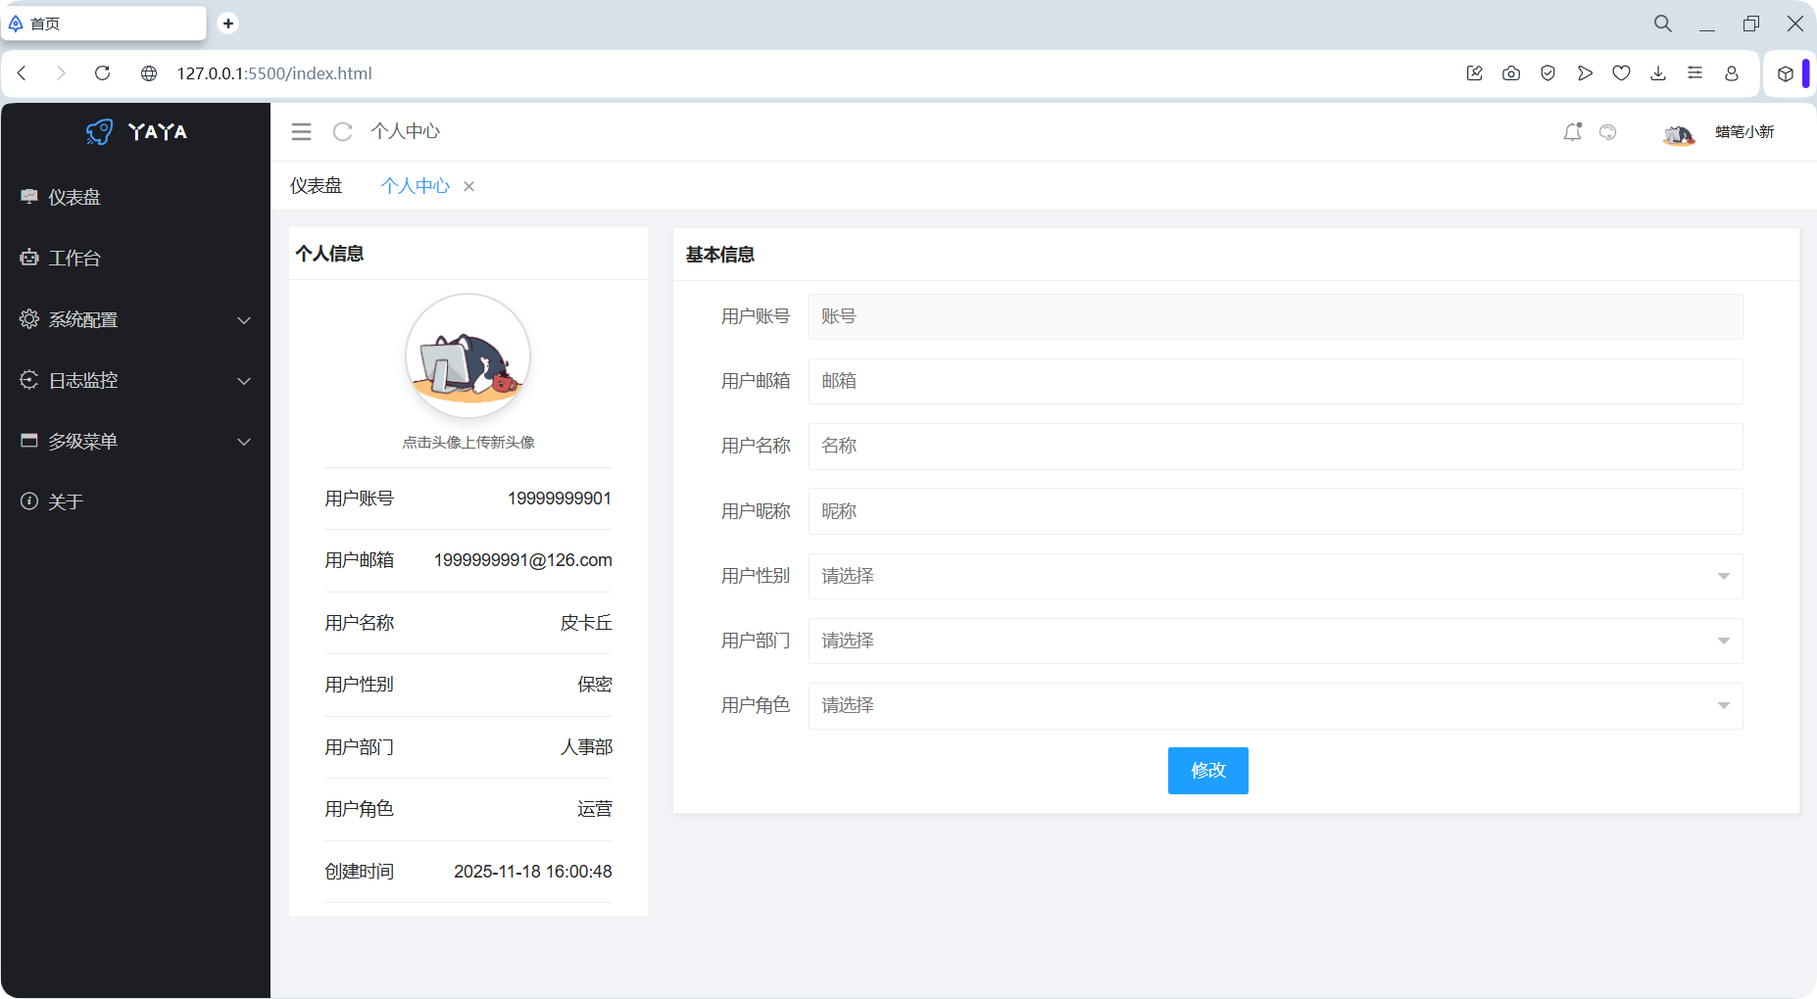
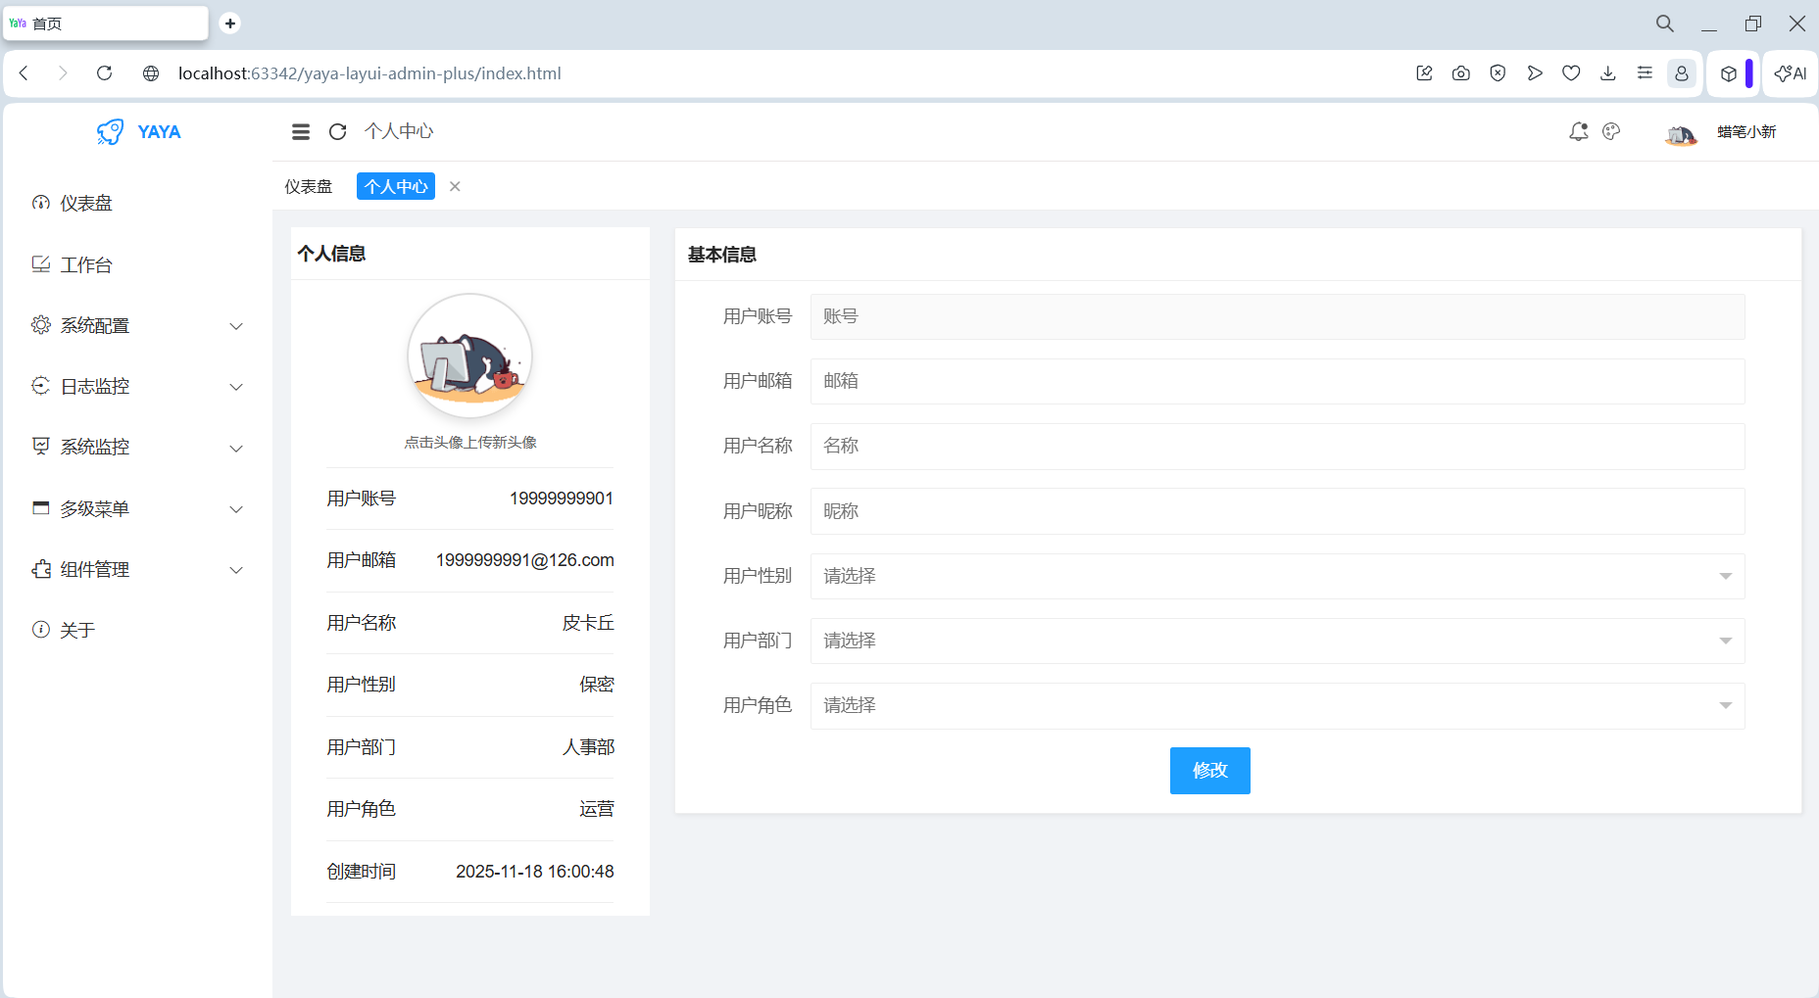
升级layui更新页面样式🎉

diff --git a/index.html b/index.html
@@ -36,7 +36,7 @@
             <!-- LOGO -->
             <div class="yaya-logo">
                 <!-- LOGO图标 -->
-                <svg t="1769259060319" class="icon" viewBox="0 0 1024 1024" version="1.1" xmlns="http://www.w3.org/2000/svg" p-id="5060" width="25" height="25"><path d="M150.320611 720.240765c7.749498-8.218172 20.813025-8.218172 28.562523 0 7.995091 7.525394 7.995091 20.589944 0 29.05371l-50.559513 50.336432c-7.994068 8.218172-21.305235 8.218172-29.031197 0-8.017604-7.995091-8.017604-20.813025 0-29.031197L150.320611 720.240765 150.320611 720.240765zM786.42514 365.541347 786.42514 365.541347c0 70.167083-56.856939 126.800941-127.024022 126.800941s-127.269615-56.633858-127.269615-126.800941c0-69.654406 57.102532-126.778428 127.269615-126.778428S786.42514 295.374264 786.42514 365.541347L786.42514 365.541347zM659.401118 279.406594 659.401118 279.406594c-47.656393 0-86.11224 38.232766-86.11224 86.134753 0 47.433312 38.455847 85.666078 86.11224 85.666078 47.433312 0 86.157265-38.232766 86.157265-85.666078C745.55736 317.638337 706.83443 279.406594 659.401118 279.406594L659.401118 279.406594zM190.495612 645.964084 190.495612 645.964084c0-26.352181 1.452071-52.257178 4.846378-78.608336 1.429559-9.223059 2.411933-18.401092 4.109598-27.603685l-7.258311 2.90312c-16.703427 6.789637-32.180933 16.705474-45.981241 29.52443-13.778818 12.594853-35.329646 11.858072-48.14758-1.675152-2.411933-3.148713-4.600785-5.828752-5.806239-8.977465-21.281699-42.341341-28.048823-89.997734-20.791535-135.711891 7.258311-45.490054 28.048823-88.345094 62.908772-123.161041l0 0 0 0c31.44313-32.202423 70.88135-52.257178 111.74913-61.234643 34.859949-7.258311 70.680782-6.297426 105.519242 2.680039l6.274914-6.297426 0.5137-0.959861-0.5137 0c73.561389-73.092715 162.621774-122.669854 256.483512-147.83807 97.256044-26.396183 199.849654-26.396183 297.127188 0 12.349259 3.148713 21.282722 12.573363 24.431435 24.185842l0 0.491187 0 0.245593c25.882484 97.010451 25.882484 199.378933-0.245593 296.390407-25.145703 93.637634-74.745355 183.145204-148.061151 256.215406l-2.188852 2.434445-4.823865 4.355191c9.42465 34.367739 10.161431 70.635757 2.657526 105.496729-8.709359 40.644699-29.05371 79.83528-60.989049 111.547539l-1.919722 1.944282c-34.369785 33.363875-76.934207 53.953819-121.241318 61.189617-46.205345 7.034207-94.107331 0.245593-137.185452-21.282722-16.458857-8.218172-23.224957-29.031197-14.984273-45.735647 1.429559-2.657526 3.394307-5.560646 5.783727-7.995091 12.595876-13.533224 22.756283-29.255301 29.544897-45.736671l2.90312-7.480368c-9.200546 1.697665-18.893302 3.148713-28.071336 4.353145-27.111474 3.640923-54.199413 4.847401-81.310887 4.601808-9.178033 0-17.396205-3.617387-23.693632-9.44614l0 0L199.920262 672.828942C192.908568 665.348574 189.513238 655.901411 190.495612 645.964084L190.495612 645.964084zM262.584464 576.288189 262.584464 576.288189c-2.390443 19.361977-3.864004 38.969547-4.332678 58.08593l132.115993 132.339074c19.339464-0.468674 38.70144-2.166339 58.040904-4.600785 23.493064-3.1262 47.210231-7.503904 70.167083-14.270005 3.394307-0.959861 7.258311-1.452071 10.898211-1.205455 18.647709 0.468674 33.631982 16.458857 32.649608 35.329646-0.959861 26.373671-6.744611 52.257178-16.905018 77.1798-3.885494 8.463766-8.240685 17.418718-13.08604 25.882484 18.401092 4.131087 37.517475 4.600785 56.387241 0.982374 30.728862-5.091972 60.229756-18.893302 84.437088-42.341341l1.206478-1.473561c22.509666-21.99699 36.310997-49.599651 42.36283-77.894068 6.744611-29.523407 4.109598-60.497862-6.788613-89.037872-4.846378-12.103666-1.452071-27.334555 9.178033-36.780695l10.652618-10.18292 8.486278-8.686846 1.205455-1.227967c65.321728-64.829518 108.869546-143.460366 130.642432-225.486544 21.305235-79.122035 23.24747-163.067936 4.846378-243.173368-79.837326-17.909905-163.090449-15.968693-242.436588 5.069459-82.761935 22.286586-161.14719 66.056462-226.000244 130.910539l-9.44614 9.178033-0.223081 0-9.178033 10.18292c-9.223059 10.875698-24.208355 15.497972-38.008662 9.915837-28.541033-10.875698-59.761082-12.842493-88.792279-6.54302-28.54001 5.828752-55.897078 20.098757-78.162174 42.341341l0-0.223081c-24.430412 24.431435-38.946011 54.199413-43.793412 86.134753-3.148713 18.155499-2.90312 37.494962 0.982374 56.142671 8.709359-4.868891 17.418718-9.44614 26.128077-13.087063 24.677029-10.161431 50.314942-15.477506 76.44302-17.173125 3.6399 0 7.770987 0.245593 11.142781 1.695618 18.401092 4.356214 28.562523 23.695678 23.694655 41.605583C270.824125 529.122983 265.977747 552.839127 262.584464 576.288189L262.584464 576.288189zM276.139178 845.835228 276.139178 845.835228c7.749498-7.972579 20.567431-7.972579 28.562523 0 8.240685 7.995091 8.240685 20.813025 0 28.785603l-50.805106 50.827619c-7.995091 7.726985-20.813025 7.726985-28.54001 0-8.240685-7.749498-8.240685-21.305235 0-28.785603L276.139178 845.835228 276.139178 845.835228zM213.230406 782.680862 213.230406 782.680862c7.748475-7.749498 20.567431-7.749498 28.562523 0 8.240685 8.240685 8.240685 21.058618 0 29.05371L126.603443 927.123602c-7.972579 7.995091-20.790512 7.995091-28.54001 0-8.463766-8.218172-8.463766-21.058618 0-29.031197L213.230406 782.680862 213.230406 782.680862z" fill="var(--tab-text)" p-id="5061"></path></svg>
+                <svg t="1769259060319" class="icon" viewBox="0 0 1024 1024" version="1.1" xmlns="http://www.w3.org/2000/svg" p-id="5060" width="25" height="25"><path d="M150.320611 720.240765c7.749498-8.218172 20.813025-8.218172 28.562523 0 7.995091 7.525394 7.995091 20.589944 0 29.05371l-50.559513 50.336432c-7.994068 8.218172-21.305235 8.218172-29.031197 0-8.017604-7.995091-8.017604-20.813025 0-29.031197L150.320611 720.240765 150.320611 720.240765zM786.42514 365.541347 786.42514 365.541347c0 70.167083-56.856939 126.800941-127.024022 126.800941s-127.269615-56.633858-127.269615-126.800941c0-69.654406 57.102532-126.778428 127.269615-126.778428S786.42514 295.374264 786.42514 365.541347L786.42514 365.541347zM659.401118 279.406594 659.401118 279.406594c-47.656393 0-86.11224 38.232766-86.11224 86.134753 0 47.433312 38.455847 85.666078 86.11224 85.666078 47.433312 0 86.157265-38.232766 86.157265-85.666078C745.55736 317.638337 706.83443 279.406594 659.401118 279.406594L659.401118 279.406594zM190.495612 645.964084 190.495612 645.964084c0-26.352181 1.452071-52.257178 4.846378-78.608336 1.429559-9.223059 2.411933-18.401092 4.109598-27.603685l-7.258311 2.90312c-16.703427 6.789637-32.180933 16.705474-45.981241 29.52443-13.778818 12.594853-35.329646 11.858072-48.14758-1.675152-2.411933-3.148713-4.600785-5.828752-5.806239-8.977465-21.281699-42.341341-28.048823-89.997734-20.791535-135.711891 7.258311-45.490054 28.048823-88.345094 62.908772-123.161041l0 0 0 0c31.44313-32.202423 70.88135-52.257178 111.74913-61.234643 34.859949-7.258311 70.680782-6.297426 105.519242 2.680039l6.274914-6.297426 0.5137-0.959861-0.5137 0c73.561389-73.092715 162.621774-122.669854 256.483512-147.83807 97.256044-26.396183 199.849654-26.396183 297.127188 0 12.349259 3.148713 21.282722 12.573363 24.431435 24.185842l0 0.491187 0 0.245593c25.882484 97.010451 25.882484 199.378933-0.245593 296.390407-25.145703 93.637634-74.745355 183.145204-148.061151 256.215406l-2.188852 2.434445-4.823865 4.355191c9.42465 34.367739 10.161431 70.635757 2.657526 105.496729-8.709359 40.644699-29.05371 79.83528-60.989049 111.547539l-1.919722 1.944282c-34.369785 33.363875-76.934207 53.953819-121.241318 61.189617-46.205345 7.034207-94.107331 0.245593-137.185452-21.282722-16.458857-8.218172-23.224957-29.031197-14.984273-45.735647 1.429559-2.657526 3.394307-5.560646 5.783727-7.995091 12.595876-13.533224 22.756283-29.255301 29.544897-45.736671l2.90312-7.480368c-9.200546 1.697665-18.893302 3.148713-28.071336 4.353145-27.111474 3.640923-54.199413 4.847401-81.310887 4.601808-9.178033 0-17.396205-3.617387-23.693632-9.44614l0 0L199.920262 672.828942C192.908568 665.348574 189.513238 655.901411 190.495612 645.964084L190.495612 645.964084zM262.584464 576.288189 262.584464 576.288189c-2.390443 19.361977-3.864004 38.969547-4.332678 58.08593l132.115993 132.339074c19.339464-0.468674 38.70144-2.166339 58.040904-4.600785 23.493064-3.1262 47.210231-7.503904 70.167083-14.270005 3.394307-0.959861 7.258311-1.452071 10.898211-1.205455 18.647709 0.468674 33.631982 16.458857 32.649608 35.329646-0.959861 26.373671-6.744611 52.257178-16.905018 77.1798-3.885494 8.463766-8.240685 17.418718-13.08604 25.882484 18.401092 4.131087 37.517475 4.600785 56.387241 0.982374 30.728862-5.091972 60.229756-18.893302 84.437088-42.341341l1.206478-1.473561c22.509666-21.99699 36.310997-49.599651 42.36283-77.894068 6.744611-29.523407 4.109598-60.497862-6.788613-89.037872-4.846378-12.103666-1.452071-27.334555 9.178033-36.780695l10.652618-10.18292 8.486278-8.686846 1.205455-1.227967c65.321728-64.829518 108.869546-143.460366 130.642432-225.486544 21.305235-79.122035 23.24747-163.067936 4.846378-243.173368-79.837326-17.909905-163.090449-15.968693-242.436588 5.069459-82.761935 22.286586-161.14719 66.056462-226.000244 130.910539l-9.44614 9.178033-0.223081 0-9.178033 10.18292c-9.223059 10.875698-24.208355 15.497972-38.008662 9.915837-28.541033-10.875698-59.761082-12.842493-88.792279-6.54302-28.54001 5.828752-55.897078 20.098757-78.162174 42.341341l0-0.223081c-24.430412 24.431435-38.946011 54.199413-43.793412 86.134753-3.148713 18.155499-2.90312 37.494962 0.982374 56.142671 8.709359-4.868891 17.418718-9.44614 26.128077-13.087063 24.677029-10.161431 50.314942-15.477506 76.44302-17.173125 3.6399 0 7.770987 0.245593 11.142781 1.695618 18.401092 4.356214 28.562523 23.695678 23.694655 41.605583C270.824125 529.122983 265.977747 552.839127 262.584464 576.288189L262.584464 576.288189zM276.139178 845.835228 276.139178 845.835228c7.749498-7.972579 20.567431-7.972579 28.562523 0 8.240685 7.995091 8.240685 20.813025 0 28.785603l-50.805106 50.827619c-7.995091 7.726985-20.813025 7.726985-28.54001 0-8.240685-7.749498-8.240685-21.305235 0-28.785603L276.139178 845.835228 276.139178 845.835228zM213.230406 782.680862 213.230406 782.680862c7.748475-7.749498 20.567431-7.749498 28.562523 0 8.240685 8.240685 8.240685 21.058618 0 29.05371L126.603443 927.123602c-7.972579 7.995091-20.790512 7.995091-28.54001 0-8.463766-8.218172-8.463766-21.058618 0-29.031197L213.230406 782.680862 213.230406 782.680862z" fill="var(--logo-color)" p-id="5061"></path></svg>
                 <!-- 标题 -->
                 <h4>YAYA</h4>
             </div>

diff --git a/css/index.css b/css/index.css
@@ -2,7 +2,21 @@
 *{padding: 0;margin: 0;}
 /* 默认主题 */
 :root{
-    --logo-color:#000000;                  /* LOGO主题默认颜色 */
+    --logo-color:#1890ff;                  /* LOGO主题默认颜色 */
+    --sidebar-bg:#ffffff; 				   /* 左侧导航栏默认背景色 */
+    --sidebar-default-text: #000000CC;     /* 菜单默认字体颜色 */
+    --sidebar-select-text: #1890ff; 	   /* 菜单选中字体颜色 */
+    --sidebar-select-bg: #f8f8f8; 		   /* 菜单选中背景颜色 */
+    --sidebar-hover-bg: #f8f8f8; 		   /* 鼠标划过菜单伪类背景颜色 */
+    --sidebar-hover-text: #1890ff; 		   /* 鼠标划过菜单伪类字体颜色 */
+    --sidebar-icon-text: #000000CC; 	   /* 鼠标划过菜单伪类字体颜色 */
+    --tab-hover-text: #1890ff; 		       /* 选项卡鼠标移到字体上面的伪类字体颜色 */
+    --tab-select-text: #ffffff; 		   /* 选项卡选中字体颜色 */
+    --tab-select-bg: #1890ff;               /* 选项卡选中的背景色 */
+}
+/* Dark1主题 */
+[data-theme="dark1"]{
+    --logo-color:#16b777;                  /* LOGO主题默认颜色 */
     --sidebar-bg:#ffffff; 				   /* 左侧导航栏默认背景色 */
     --sidebar-default-text: #000000CC;     /* 菜单默认字体颜色 */
     --sidebar-select-text: #16b777; 	   /* 菜单选中字体颜色 */
@@ -10,23 +24,13 @@
     --sidebar-hover-bg: #f8f8f8; 		   /* 鼠标划过菜单伪类背景颜色 */
     --sidebar-hover-text: #16b777; 		   /* 鼠标划过菜单伪类字体颜色 */
     --sidebar-icon-text: #000000CC; 	   /* 鼠标划过菜单伪类字体颜色 */
-    --tab-text: #16b777; 		           /* 选项卡选中字体颜色 */
-}
-/* Dark1主题 */
-[data-theme="dark1"]{
-    --logo-color:#ffffff;                       /* LOGO主题默认颜色 */
-    --sidebar-bg:#2f363c; 				        /* 左侧导航栏Dark主题背景色 */
-    --sidebar-default-text: #ffffffb3;          /* 菜单默认字体颜色 */
-    --sidebar-select-text: #16b777; 	        /* 菜单选中字体颜色 */
-    --sidebar-select-bg: rgba(0,0,0,0.1); 		/* 菜单选中背景颜色 */
-    --sidebar-hover-bg: rgba(0,0,0,0.1); 		/* 鼠标划过菜单伪类背景颜色 */
-    --sidebar-hover-text: #16b777; 		        /* 鼠标划过菜单伪类字体颜色 */
-    --sidebar-icon-text: #ffffffb3; 		    /* 鼠标划过菜单伪类字体颜色 */
-    --tab-text: #16b777; 		                /* 选项卡选中字体颜色 */
+    --tab-hover-text: #16b777; 		       /* 选项卡鼠标移到字体上面的伪类字体颜色 */
+    --tab-select-text: #ffffff; 		   /* 选项卡选中字体颜色 */
+    --tab-select-bg: #16b777;               /* 选项卡选中的背景色 */
 }
 /* Dark2主题 */
 [data-theme="dark2"]{
-    --logo-color:#ffffff;                       /* LOGO主题默认颜色 */
+    --logo-color:#409eff;                       /* LOGO主题默认颜色 */
     --sidebar-bg:#1c1e23; 				        /* 左侧导航栏Dark主题背景色 */
     --sidebar-default-text: #f2f2f2cc;          /* 菜单默认字体颜色 */
     --sidebar-select-text: #fafafa; 	        /* 菜单选中字体颜色 */
@@ -34,7 +38,9 @@
     --sidebar-hover-bg: #2e3033; 		        /* 鼠标划过菜单伪类背景颜色 */
     --sidebar-hover-text: #fafafa; 		        /* 鼠标划过菜单伪类字体颜色 */
     --sidebar-icon-text: #ffffffb3; 		    /* 鼠标划过菜单伪类字体颜色 */
-    --tab-text: #409eff; 		                /* 选项卡选中字体颜色 */
+    --tab-hover-text: #409eff; 		            /* 选项卡鼠标移到字体上面的伪类字体颜色 */
+    --tab-select-text: #ffffff; 		        /* 选项卡选中字体颜色 */
+    --tab-select-bg: #409eff;                   /* 选项卡选中的背景色 */
 }
 
 /* 主题配置页面 样式 start */
@@ -97,7 +103,7 @@ a{
     border-bottom:unset;/* 选项卡选中默认下划线去掉 */
 }
 .yaya-tabs>.layui-tabs-header .layui-this, .layui-tabs-header li:hover{
-    color: var(--tab-text);/*覆盖选项卡选中默认字体颜色*/
+    color: var(--tab-hover-text);/*覆盖选项卡选中默认字体颜色*/
 }
 
 .yaya-right-bar-left{
@@ -147,11 +153,11 @@ a{
 }
 /* 选项卡鼠标划过的伪类样式 */
 .layui-tabs-header .layui-this, .layui-tabs-header li:hover{
-    color:var(--tab-text);
+    color:var(--tab-hover-text);
 }
 /* 修改选项卡标签关闭按钮伪类样式 */
 .layui-tabs-header li .layui-tabs-close:hover{
-    background-color: var(--tab-text);
+    background-color: var(--tab-hover-text);
     color:#fff;
 }
 /* 选项卡内容水平过多出现滚动条时，距离左侧的选项卡内容距离左侧的边距 */
@@ -189,7 +195,18 @@ a{
     opacity: 0;
     transform: translateX(-10px);
     animation: fadeInRight .4s ease forwards;
+    padding: 0 10px;
+    font-size: 13px;
 }
+
+.layui-this>span{
+    background-color: var(--tab-select-bg);
+    color: var(--tab-select-text);
+    padding: 4px 6px;
+    border-radius: 3px;
+    font-size: 13px;
+}
+
 /* 内容显示动画样式 */
 .yaya-tabs>.layui-tabs-body>.layui-tabs-item{
     opacity: 0;

diff --git a/views/about.html b/views/about.html
@@ -32,8 +32,15 @@
                             <i class="layui-icon layui-timeline-axis"></i>
                             <div class="layui-timeline-content layui-text">
                                 <div class="layui-timeline-title">
-                                    2026-03-04 新增系统监控页面,优化其它样式,发布v2.0-stable版本
-                                    <svg t="1772597737820" class="icon" viewBox="0 0 1024 1024" version="1.1" xmlns="http://www.w3.org/2000/svg" p-id="4792" width="32" height="32"><path d="M245.76 286.72h552.96c124.928 0 225.28 100.352 225.28 225.28s-100.352 225.28-225.28 225.28H0V532.48c0-135.168 110.592-245.76 245.76-245.76z m133.12 348.16V401.408H348.16v178.176l-112.64-178.176H204.8V634.88h30.72v-178.176L348.16 634.88h30.72z m182.272-108.544v-24.576h-96.256v-75.776h110.592v-24.576h-141.312V634.88h143.36v-24.576h-112.64v-83.968h96.256z m100.352 28.672l-34.816-151.552h-34.816l55.296 233.472H675.84l47.104-161.792 4.096-20.48 4.096 20.48 47.104 161.792h28.672l57.344-233.472h-34.816l-32.768 151.552-4.096 30.72-6.144-30.72-40.96-151.552h-30.72l-40.96 151.552-6.144 30.72-6.144-30.72z" fill="#EE502F" p-id="4793"></path></svg>
+                                    2026-04-06 升级Layui库，优化页面样式<svg t="1772597737820" class="icon" viewBox="0 0 1024 1024" version="1.1" xmlns="http://www.w3.org/2000/svg" p-id="4792" width="32" height="32"><path d="M245.76 286.72h552.96c124.928 0 225.28 100.352 225.28 225.28s-100.352 225.28-225.28 225.28H0V532.48c0-135.168 110.592-245.76 245.76-245.76z m133.12 348.16V401.408H348.16v178.176l-112.64-178.176H204.8V634.88h30.72v-178.176L348.16 634.88h30.72z m182.272-108.544v-24.576h-96.256v-75.776h110.592v-24.576h-141.312V634.88h143.36v-24.576h-112.64v-83.968h96.256z m100.352 28.672l-34.816-151.552h-34.816l55.296 233.472H675.84l47.104-161.792 4.096-20.48 4.096 20.48 47.104 161.792h28.672l57.344-233.472h-34.816l-32.768 151.552-4.096 30.72-6.144-30.72-40.96-151.552h-30.72l-40.96 151.552-6.144 30.72-6.144-30.72z" fill="#EE502F" p-id="4793"></path></svg>
+                                </div>
+                            </div>
+                        </div>
+                        <div class="layui-timeline-item">
+                            <i class="layui-icon layui-timeline-axis"></i>
+                            <div class="layui-timeline-content layui-text">
+                                <div class="layui-timeline-title">
+                                    2026-03-04 发布v2.0-stable版本
                                 </div>
                             </div>
                         </div>
@@ -100,9 +107,9 @@
                         <div class="layui-col-md3">Github</div>
                     </div>
                     <div class="layui-row" style="margin: 20px 0;">
-                        <div class="layui-col-md3">1.7</div>
+                        <div class="layui-col-md3">2.2.0</div>
                         <div class="layui-col-md3">MIT</div>
-                        <div class="layui-col-md3">2026-02-28</div>
+                        <div class="layui-col-md3">2026-04-06</div>
                         <div class="layui-col-md3"> <a style="color: #1476ff;" target="_blank" href="https://github.com/hs-an-yue/yaya-layui-admin-plus">点击查看</a> </div>
                     </div>
                     <hr>
@@ -132,7 +139,7 @@
                         <div class="layui-col-md3">AI模型</div>
                     </div>
                     <div class="layui-row" style="margin: 20px 0;">
-                        <div class="layui-col-md3">2.13.3</div>
+                        <div class="layui-col-md3">2.13.5</div>
                         <div class="layui-col-md3">6.0.0</div>
                         <div class="layui-col-md3">1.2.4</div>
                         <div class="layui-col-md3"> Qwen3/Gemini/Grok/豆包 </div>

diff --git a/js/yaya-admin-plus.js b/js/yaya-admin-plus.js
@@ -140,11 +140,11 @@ layui.use(function (){
                     <!-- 主题切换 -->
                     <form class="layui-form" style="width: 180px;padding-top: 10px;text-align: center;">
                         <input lay-filter="radio-theme" type="radio" name="theme" value="default" lay-skin="none" checked>
-                        <div lay-radio class="lay-skin-tag layui-badge">白色</div>
+                        <div lay-radio class="lay-skin-tag layui-badge">白-蓝</div>
                         <input lay-filter="radio-theme" type="radio" name="theme" value="dark1" lay-skin="none">
-                        <div lay-radio class="lay-skin-tag layui-badge">黑色-1</div>
+                        <div lay-radio class="lay-skin-tag layui-badge">白-绿</div>
                         <input lay-filter="radio-theme" type="radio" name="theme" value="dark2" lay-skin="none">
-                        <div lay-radio class="lay-skin-tag layui-badge">黑色-2</div>
+                        <div lay-radio class="lay-skin-tag layui-badge">黑-蓝</div>
                     </form>
                 `,
                 success: function(layero){
@@ -404,7 +404,7 @@ layui.use(function (){
                     className:'yaya-tabs',
                     header: [
                         {
-                            title: welcomeYayaTitle,
+                            title: `<span>${welcomeYayaTitle}</span>`,
                             closable:false,
                             id:welcomeYayaId
                         }
@@ -423,7 +423,7 @@ layui.use(function (){
                 //header
                 let header=[
                     {
-                        title: welcomeYayaTitle,
+                        title: `<span>${welcomeYayaTitle}</span>`,
                         closable:false,
                         id:welcomeYayaId
                     }
@@ -438,7 +438,7 @@ layui.use(function (){
                 ];
                 if($yayaTitle && yayaId && $yayaUrl && $yayaTitle.length>0 && $yayaUrl.length>0){
                     header.push({
-                        title: $yayaTitle,
+                        title: `<span>${$yayaTitle}</span>`,
                         closable:true,
                         id:yayaId
                     });
@@ -465,7 +465,7 @@ layui.use(function (){
                 className:'yaya-tabs',
                 header: [
                     {
-                        title: welcomeYayaTitle,
+                        title: `<span>${welcomeYayaTitle}</span>`,
                         closable:false,
                         id:welcomeYayaId
                     }
@@ -557,7 +557,7 @@ function yaya_add(menu_id, menu_title, menu_url) {
         //如果不存在
         if(!isExist){
             tabs.add('yaya-right-tab', {
-                title: menu_title,
+                title: `<span>${menu_title}</span>`,
                 id:menu_id,
                 content: '<iframe style="border: none;width: 100%;height: 100%;" src="'+menu_url+'"></iframe>',
                 done: function(data) {

diff --git a/README.md b/README.md
@@ -27,6 +27,7 @@
 #### 更新日志
 
 ```
+2026-04-06      左侧菜单选中样式优化,顶部选项卡样式优化,主题优化,Layui库升级,其它样式优化 🆕🚀🎉✈
 2026-03-04      新增系统监控页面,优化其它样式,发布v2.0-stable版本 🆕🚀🎉💪
 2026-02-28      新增布局组件，修改案例页面的样式为模板定义的样式，并且优化了几个不合理的样式，首页统计样式调整
 2026-02-27      新增列表条件搜索组件
